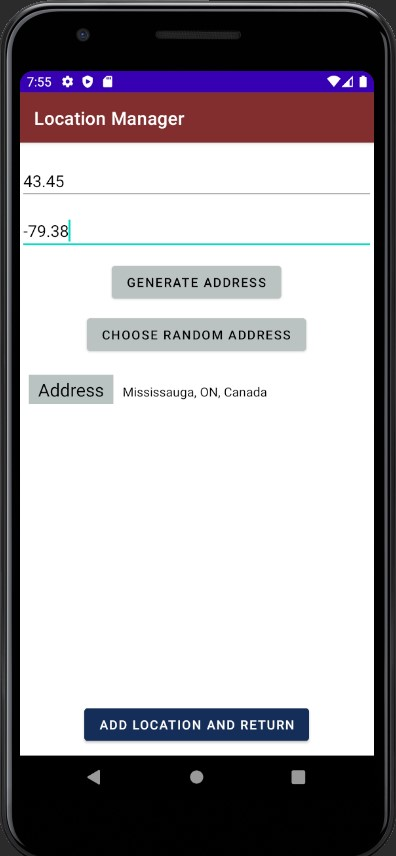
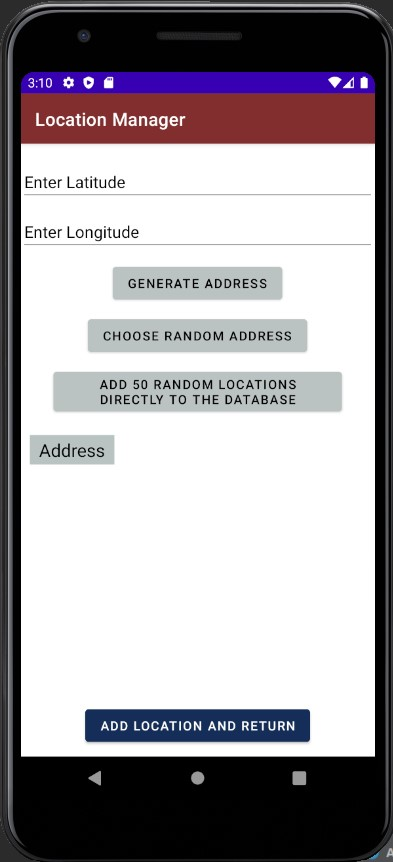
Added alerts and button to add 10 random locations

Changed region(s): [[0.0, 0.0, 1.0, 1.0]]

diff --git a/app/src/main/java/com/example/locationtracker/AddActivity.java b/app/src/main/java/com/example/locationtracker/AddActivity.java
@@ -2,6 +2,8 @@ package com.example.locationtracker;
 
 import androidx.appcompat.app.AppCompatActivity;
 
+import android.app.AlertDialog;
+import android.content.DialogInterface;
 import android.content.Intent;
 import android.database.sqlite.SQLiteDatabase;
 import android.location.Address;
@@ -155,8 +157,91 @@ public class AddActivity extends AppCompatActivity {
     }
 
     // Method to add 50 random locations
-    public void add_random_locations() {
-        System.out.println("Method to add 50 random locations to the database");
+    public void add_random_locations(View v) {
+        System.out.println("Method to add 10 random locations to the database");
+
+        // Create a geocoder object
+        Geocoder geocoder = new Geocoder(getApplicationContext(), Locale.getDefault());
+        LocationCRUD locationsHelper = new LocationCRUD(getApplicationContext());
+
+        // Display an alert dialog box
+        AlertDialog.Builder alertDialogBuilder = new AlertDialog.Builder(v.getContext());
+        alertDialogBuilder.setMessage("Clicking yes will add 10 new randomly generated locations to your database after which, you will be taken to the main page. Proceed?");
+
+        // Set a button and listener for positive response
+        alertDialogBuilder.setPositiveButton("Yes",
+                new DialogInterface.OnClickListener() {
+                    @Override
+                    public void onClick(DialogInterface dialog, int which) {
+                        // Create a counter variable
+                        int location_counter = 0;
+
+                        while(location_counter <= 10) {
+
+                            // Generate a random latitude and longitude and display
+                            float latitude = (float) Math.random() * (180) - 90;
+                            float longitude = (float) Math.random() * (260) - 180;
+
+                            String address_final = "";
+
+                            try {
+                                List<Address> generated_addresses = geocoder.getFromLocation((double) latitude, (double) longitude, 1);
+
+                                if (generated_addresses.size() == 0) {
+                                    // Toast.makeText(v.getContext(), "Geocoder could not generate address. Try again", Toast.LENGTH_SHORT).show();
+                                    address_final = "";
+                                } else {
+                                    Address generated_address = generated_addresses.get(0); // Get the first element from the list of generated address
+
+                                    // Build a string for the final address
+                                    address_final = generated_address.getAddressLine(0).toString();
+
+                                    if (generated_address.getPostalCode() != null) {
+                                        address_final += " ";
+                                        address_final += generated_address.getPostalCode().toString();
+                                    }
+                                    Toast.makeText(v.getContext(), "Address Generated", Toast.LENGTH_SHORT).show();
+                                    location_counter++;
+                                }
+                            } catch (IOException e) {
+                                e.printStackTrace();
+                            }
+
+                            added_location = new LocationModel(99999, address_final, latitude, longitude);
+                            System.out.println("Location " + location_counter + ": " + added_location.toString());
+
+                            // Adding last generated location
+                            if (address_final != "") {
+                                boolean result = locationsHelper.insertLocation(added_location);
+                                if (result) {
+                                    System.out.println("Location added successfully");
+                                } else {
+                                    System.out.println("Could not add location");
+                                }
+                            }
+                        }
+
+                        System.out.println("50 Random locations added");
+                        Toast.makeText(v.getContext(), "50 Random Locations have been added to the database", Toast.LENGTH_SHORT).show();
+                        Intent add_location_return = new Intent(getApplicationContext(), MainActivity.class);
+                        startActivity(add_location_return);
+                    }
+                });
+
+        // Set a button for negative response
+        alertDialogBuilder.setNegativeButton("No",
+                new DialogInterface.OnClickListener() {
+                    @Override
+                    public void onClick(DialogInterface dialog, int which) {
+                        System.out.println("Adding 50 locations not confirmed");
+                    }
+                });
+
+        // Create the dialog box with the provided attributes and listeners and show
+        AlertDialog alertDialog = alertDialogBuilder.create();
+        alertDialog.show();
+
+
     }
 
     // On click listener to add the location and return to the main activity

diff --git a/app/src/main/java/com/example/locationtracker/CustomAdapter.java b/app/src/main/java/com/example/locationtracker/CustomAdapter.java
@@ -1,7 +1,9 @@
 package com.example.locationtracker;
 
 import android.annotation.SuppressLint;
+import android.app.AlertDialog;
 import android.content.Context;
+import android.content.DialogInterface;
 import android.content.Intent;
 import android.location.Location;
 import android.view.LayoutInflater;
@@ -9,6 +11,7 @@ import android.view.View;
 import android.view.ViewGroup;
 import android.widget.Button;
 import android.widget.TextView;
+import android.widget.Toast;
 
 import androidx.annotation.NonNull;
 import androidx.recyclerview.widget.RecyclerView;
@@ -83,16 +86,45 @@ public class CustomAdapter extends RecyclerView.Adapter {
                 locationsHelper = new LocationCRUD(v.getContext());
 
                 System.out.println("Delete Location button clicked for location: " + locations.get(position));
-                boolean result = locationsHelper.deleteLocation(locations.get(position).getId());
-                if (result) {
-                    System.out.println("Adapter: Row deleted successfully");
-                } else {
-                    System.out.println("Could not find row to delete");
-                }
 
-                // Restart the activity upon making any changes
-                Intent deleteIntent = new Intent(context, MainActivity.class);
-                context.startActivity(deleteIntent);
+                // Display an alert dialog box
+                AlertDialog.Builder alertDialogBuilder = new AlertDialog.Builder(v.getContext());
+                alertDialogBuilder.setMessage("Are you sure you wish to delete?");
+
+                // Set a button and listener for positive response
+                alertDialogBuilder.setPositiveButton("Yes",
+                        new DialogInterface.OnClickListener() {
+                            @Override
+                            public void onClick(DialogInterface dialog, int which) {
+                                // Handle yes clicked from alert box
+                                System.out.println("Yes clicked in the alert box");
+                                boolean result = locationsHelper.deleteLocation(locations.get(position).getId());
+                                if (result) {
+                                    System.out.println("Adapter: Row deleted successfully");
+                                    Toast.makeText(v.getContext(), "Deletion successful", Toast.LENGTH_SHORT).show();
+                                } else {
+                                    System.out.println("Could not find row to delete");
+                                    Toast.makeText(v.getContext(), "Could not find row to delete", Toast.LENGTH_SHORT).show();
+                                }
+
+                                // Restart the activity upon making any changes
+                                Intent deleteIntent = new Intent(context, MainActivity.class);
+                                context.startActivity(deleteIntent);
+                            }
+                        });
+                // Set a button for negative response
+                alertDialogBuilder.setNegativeButton("No",
+                        new DialogInterface.OnClickListener() {
+                            @Override
+                            public void onClick(DialogInterface dialog, int which) {
+                                System.out.println("Delete not confirmed");
+                                Toast.makeText(v.getContext(), "Delete not confirmed", Toast.LENGTH_SHORT).show();
+                            }
+                        });
+
+                // Create the dialog box with the provided attributes and listeners and show
+                AlertDialog alertDialog = alertDialogBuilder.create();
+                alertDialog.show();
             }
         });
     }

diff --git a/README.md b/README.md
@@ -11,6 +11,10 @@
 4. The application contains appropriate validation in case correct inputs are not provided/geocoding is not successful
 5. App testing has been performed on different emulators and more than 100 different locations
 
+## Helpful Tips and Instructions:
+1. When providing Latitude and Longitude for reverse geocoding/ when adding random locations, make sure to keep track of the displayed toasts, since reverse geocoding is not successful for some inaccessible locations
+2.
+
 ## Screenshots:
 Following are some screenshots of the running application from Pixel 3a Emulator Window
 
@@ -19,4 +23,7 @@ Following are some screenshots of the running application from Pixel 3a Emulator
   <img src="Images/SearchMainPage.jpg" width="360" height="720" title="ss2">
   <img src="Images/AddLocationPage.jpg" width="360" height="720" title="ss3">
   <img src="Images/UpdateLocationPage.jpg" width="360" height="720" title="ss4">
+  <img src="Images/Add50RandomLocationsAlert.jpg" width="360" height="720" title="ss5">
+  <img src="Images/DeleteLocationAlert.jpg" width="360" height="720" title="ss6">
+
 </p>
